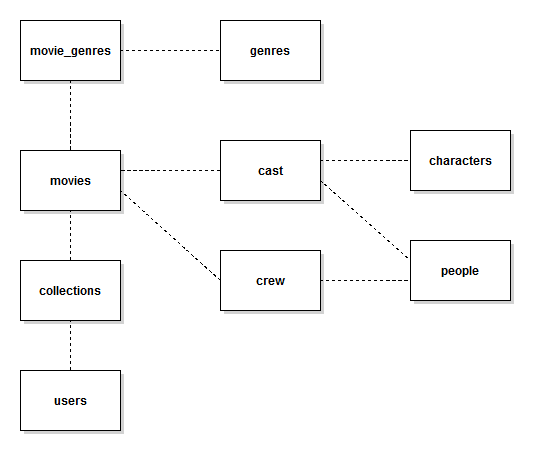
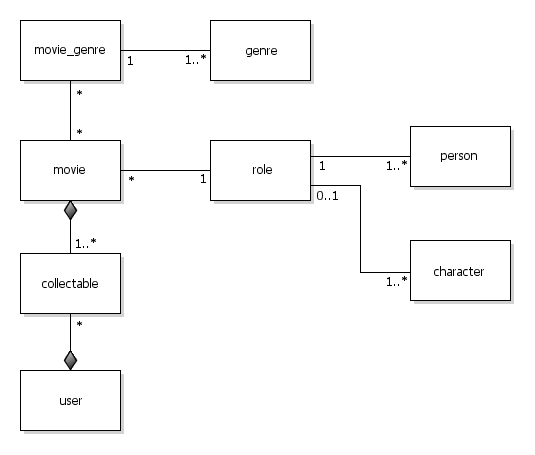
muutettu taulujen nimet yksikkömuotoon

diff --git a/src/main/java/leffakanta/model/Movie.java b/src/main/java/leffakanta/model/Movie.java
@@ -11,26 +11,35 @@ import static org.springframework.web.util.HtmlUtils.htmlEscape;
 import static org.springframework.web.util.HtmlUtils.htmlUnescape;
 
 public class Movie {
-    private int movieId;   
+    private int movieId;
+    
     @Size(min=1, max=50) @NotNull 
     private String movieTitle;
+    
     //regexp number between 1900 and 2099
     @Pattern(regexp = "^(19|20)\\d{2}$") @NotNull
     private String year;    
+    
     //regexp null or 0>= and <1000
     @Pattern(regexp = "^$|\\d{1,3}(?:\\.\\d{1,5})?$")
     private String runtime;    
+    
     //regexp null or number between 0 and 10 with optional 1 digit
     @Pattern(regexp = "^$|10([.,]0)?|(\\d([.,]\\d{1})?)")
     private String rating;    
+    
     @Size(min=0, max=500) 
     private String plotText;
+    
     @URL 
     private String posterUrl;
+    
     @URL
     private String backgroundUrl;
+    
     @URL
     private String trailerUrl;
+    
     private String formatType;
     private int collectionID;
     private int ownerCount;
@@ -42,15 +51,15 @@ public class Movie {
     // return -1 if unsuccessful, 0 if existing movie added into collection and return movie_id if new movie added
     public int addMovie(Movie movie, int user_id){
         int retVal = -1;
-        String sql = "SELECT movie_id FROM movies WHERE movie_title = ? AND year = ?";
+        String sql = "SELECT movie_id FROM movie WHERE movie_title = ? AND year = ?";
         int movie_id = Database.queryForInt(sql, new Object[]{ movie.getMovieTitle(), parseInt(movie.getYear())}); 
         if (movie_id==-1){
-            sql = "INSERT INTO movies VALUES (DEFAULT,?,?,null,null,null,null,null) RETURNING movie_id";           
+            sql = "INSERT INTO movie VALUES (DEFAULT,?,?,null,null,null,null,null) RETURNING movie_id";           
             movie_id = Database.queryForInt(sql, new Object[]{ movie.getMovieTitle(), parseInt(movie.getYear())});
             retVal = movie_id;
         }
         if (movie_id!=-1){
-            sql = "INSERT INTO collections VALUES (DEFAULT, "+user_id+","+movie_id+",'"+movie.getFormatType()+"')";
+            sql = "INSERT INTO collectable VALUES (DEFAULT, "+user_id+","+movie_id+",'"+movie.getFormatType()+"')";
             Database.update(sql, null);
             if (retVal == -1){
                 retVal = 0;
@@ -61,7 +70,7 @@ public class Movie {
     
     // update movie details
     public void updateMovie(Movie movie){
-        String sql = "UPDATE movies SET movie_title=?, year=?, runtime=?, rating=?, plot_text=?, poster_url=?, background_url=? " +
+        String sql = "UPDATE movie SET movie_title=?, year=?, runtime=?, rating=?, plot_text=?, poster_url=?, background_url=? " +
                 " WHERE movie_id=?";
         Database.update(sql, new Object[]{ movie.getMovieTitle(), parseInt(movie.getYear()), parseInt(movie.getRuntimeForSql()), 
             parseFloat(movie.getRatingForSql()), movie.getPlotText(), movie.getPosterUrl(), movie.getBackgroundUrl(), movie.getMovieId()}); 
@@ -70,11 +79,11 @@ public class Movie {
     
     // remove movie from selected users collection
     public void removeMovie(int movie_id, int collection_id, int user_id){
-        String sql = "DELETE FROM collections WHERE item_id = ? AND user_id = ?";
+        String sql = "DELETE FROM collectable WHERE item_id = ? AND user_id = ?";
         Database.update(sql, new Object[] {collection_id, user_id});
         
         // if last user with the same movie, delete movie records too
-        sql = "SELECT COUNT(*) FROM collections WHERE movie_id = ?";
+        sql = "SELECT COUNT(*) FROM collectable WHERE movie_id = ?";
         int count = Database.queryForInt(sql, movie_id);
         if (count == 0){            
             deleteMovie(movie_id);
@@ -83,25 +92,25 @@ public class Movie {
     
     // delete movie alltogether
     public void deleteMovie(int movie_id){
-        String sql = "DELETE FROM movies WHERE movie_id = ?";
+        String sql = "DELETE FROM movie WHERE movie_id = ?";
         Database.update(sql, movie_id);
     }
     
     // get movie's details
     public Movie getMovie(int movie_id){        
         // get basic movie details
-        String sql = "SELECT * FROM movies WHERE movie_id = ?";
+        String sql = "SELECT * FROM movie WHERE movie_id = ?";
         Movie movie = Database.queryForObject(sql, movie_id, Movie.class);
 
         // get movie's genres
-        sql = "SELECT genre_name FROM movie_genres, genres WHERE movie_genres.genre_id=genres.genre_id AND movie_id = ?";
+        sql = "SELECT genre_name FROM movie_genre, genre WHERE movie_genre.genre_id=genre.genre_id AND movie_id = ?";
         movie.genres = Database.queryForList(sql, movie_id, Genre.class);
 
-        sql = "SELECT role_id, people.person_id, production_role, person_name, image_url, null as character_name FROM " +
-                "people, roles WHERE production_role != 'Actor' AND roles.person_id = people.person_id AND movie_id = ? " +
-                "UNION SELECT role_id, people.person_id, production_role, person_name, image_url, character_name FROM " +
-                "people, roles, characters WHERE production_role = 'Actor' AND roles.character_id = characters.character_id " +
-                "AND roles.person_id = people.person_id AND movie_id = ? ORDER BY role_id ASC;";
+        sql = "SELECT role_id, person.person_id, production_role, person_name, image_url, null as character_name FROM " +
+                "person, role WHERE production_role != 'Actor' AND role.person_id = person.person_id AND movie_id = ? " +
+                "UNION SELECT role_id, person.person_id, production_role, person_name, image_url, character_name FROM " +
+                "person, role, \"character\" WHERE production_role = 'Actor' AND role.character_id = \"character\".character_id " +
+                "AND role.person_id = person.person_id AND movie_id = ? ORDER BY role_id ASC;";
         movie.roles = Database.queryForList(sql, new Object[]{ movie_id, movie_id }, Role.class);        
         return movie;
     }
@@ -109,8 +118,8 @@ public class Movie {
     // get movie details by collection id
     public Movie getMovieFromCollection(int collection_id){
         // get basic movie details
-        String sql = "SELECT DISTINCT item_id as collection_id, movies.movie_id, movie_title, year, format_type " +
-                "FROM movies, collections WHERE movies.movie_id = collections.movie_id AND item_id = ?";
+        String sql = "SELECT DISTINCT item_id as collection_id, movie.movie_id, movie_title, year, format_type " +
+                "FROM movie, collectable WHERE movie.movie_id = collectable.movie_id AND item_id = ?";
         Movie movie = Database.queryForObject(sql, collection_id, Movie.class);
         return movie;
     }
@@ -157,13 +166,14 @@ public class Movie {
         return enums;
     }    
     
-    private List<Role> getRole(String name){
+    // get role list by rolename
+    private List<Role> getRoles(String roleName){
         List<Role> roleList = new ArrayList<Role>();
         if (this.roles == null){
             return roleList;
         }
         for (Role role : this.roles){
-            if (role.getProductionRole().equals(name)){
+            if (role.getProductionRole().equals(roleName)){
                 roleList.add(role);
             }
         }
@@ -187,9 +197,9 @@ public class Movie {
     public int getOwnerCount(){ return this.ownerCount; }
     public boolean getNewMovie(){ return this.newMovie; }
     public List<Genre> getGenres(){ return this.genres; }
-    public List<Role> getCast(){ return this.getRole("Actor"); }
-    public List<Role> getDirectors(){ return this.getRole("Director"); }
-    public List<Role> getWriters(){ return this.getRole("Writer"); }
+    public List<Role> getCast(){ return this.getRoles("Actor"); }
+    public List<Role> getDirectors(){ return this.getRoles("Director"); }
+    public List<Role> getWriters(){ return this.getRoles("Writer"); }
     
     public void setMovieId(int value){ this.movieId = value; }
     public void setMovieTitle(String value){ this.movieTitle = htmlUnescape(value); }

diff --git a/src/main/java/leffakanta/model/Movies.java b/src/main/java/leffakanta/model/Movies.java
@@ -9,8 +9,8 @@ public class Movies {
     
     // get all movies
     public List<Movie> getMovieList(int page, int pageSize){
-        String sql = "SELECT m.movie_id, movie_title, year, rating, c.owner_count FROM movies m " +
-                "JOIN (SELECT movie_id, COUNT(movie_id) as owner_count FROM collections GROUP BY movie_id) c "+
+        String sql = "SELECT m.movie_id, movie_title, year, rating, c.owner_count FROM movie m " +
+                "JOIN (SELECT movie_id, COUNT(movie_id) as owner_count FROM collectable GROUP BY movie_id) c "+
                 "ON m.movie_id = c.movie_id ORDER BY movie_title, year ASC OFFSET ? LIMIT ?";
         List<Movie> movies = Database.queryForList(sql, new Object[]{ (page-1)*pageSize, pageSize}, Movie.class);
         return movies;
@@ -18,8 +18,8 @@ public class Movies {
 
     // get users movie collection
     public List<Movie> getMovieList(int userId, int page, int pageSize){
-        String sql = "SELECT DISTINCT item_id as collection_id, movies.movie_id, movie_title, year, rating, user_id, format_type " +
-                "FROM movies, collections WHERE movies.movie_id = collections.movie_id AND user_id = ? " +
+        String sql = "SELECT DISTINCT item_id as collection_id, movie.movie_id, movie_title, year, rating, user_id, format_type " +
+                "FROM movie, collectable WHERE movie.movie_id = collectable.movie_id AND user_id = ? " +
                 "ORDER BY movie_title, year ASC OFFSET ? LIMIT ?";
         List<Movie> movies = Database.queryForList(sql, new Object[]{ userId, (page-1)*pageSize, pageSize}, Movie.class);
         return movies;
@@ -27,8 +27,8 @@ public class Movies {
 
     // get all movies for given search value
     public List<Movie> searchMovieList(String searchValue){
-        String sql = "SELECT m.movie_id, movie_title, year, rating, c.owner_count FROM movies m " +
-                "JOIN (SELECT movie_id, COUNT(movie_id) as owner_count FROM collections GROUP BY movie_id) c "+
+        String sql = "SELECT m.movie_id, movie_title, year, rating, c.owner_count FROM movie m " +
+                "JOIN (SELECT movie_id, COUNT(movie_id) as owner_count FROM collectable GROUP BY movie_id) c "+
                 "ON m.movie_id = c.movie_id WHERE LOWER(movie_title) LIKE ? ORDER BY movie_title, year ASC";
         List<Movie> movies = Database.queryForList(sql, "%"+searchValue.toLowerCase()+"%", Movie.class);
         return movies;
@@ -36,8 +36,8 @@ public class Movies {
 
     // get users movie collection for given search value
     public List<Movie> searchMovieList(int userId, String searchValue){
-        String sql = "SELECT DISTINCT item_id as collection_id, movies.movie_id, movie_title, year, rating, user_id, format_type " +
-                "FROM movies, collections WHERE movies.movie_id = collections.movie_id AND user_id = ? AND LOWER(movie_title) LIKE ? " +
+        String sql = "SELECT DISTINCT item_id as collection_id, movie.movie_id, movie_title, year, rating, user_id, format_type " +
+                "FROM movie, collectable WHERE movie.movie_id = collectable.movie_id AND user_id = ? AND LOWER(movie_title) LIKE ? " +
                 "ORDER BY movie_title, year ASC";
         List<Movie> movies = Database.queryForList(sql, new Object[] { userId, "%"+searchValue.toLowerCase()+"%" }, Movie.class);
         return movies;
@@ -45,28 +45,29 @@ public class Movies {
 
     // get movie count for given search value
     public int searchMovieCount(String searchValue){
-        String sql = "SELECT COUNT(*) FROM movies WHERE LOWER(movie_title) LIKE ?";
+        String sql = "SELECT COUNT(*) FROM movie WHERE LOWER(movie_title) LIKE ?";
         int count = Database.queryForInt(sql, "%"+searchValue.toLowerCase()+"%");
         return count;        
     }
 
     // get movie count for given search value
     public int searchMovieCount(int userId, String searchValue){
-        String sql = "SELECT COUNT(*) FROM movies, collections WHERE movies.movie_id = collections.movie_id AND user_id = ? AND LOWER(movie_title) LIKE ?";
+        String sql = "SELECT COUNT(*) FROM movie, collectable WHERE movie.movie_id = collectable.movie_id "+
+                    "AND user_id = ? AND LOWER(movie_title) LIKE ?";
         int count = Database.queryForInt(sql, new Object[] { userId, "%"+searchValue.toLowerCase()+"%" });
         return count;
     }    
 
     // get movie amount for all users
     public int getMovieCount(){
-        String sql = "SELECT COUNT(*) FROM collections";
+        String sql = "SELECT COUNT(*) FROM collectable";
         int count = Database.queryForInt(sql, null);
         return count;
     }    
 
     // get movie amount for user
     public int getMovieCount(int userId){
-        String sql = "SELECT COUNT(*) FROM collections WHERE user_id = ?";
+        String sql = "SELECT COUNT(*) FROM collectable WHERE user_id = ?";
         int count = Database.queryForInt(sql, userId);
         return count;
     }    

diff --git a/src/main/java/leffakanta/model/User.java b/src/main/java/leffakanta/model/User.java
@@ -19,14 +19,14 @@ public class User {
 
     // get user's details
     public User getUser(String username){
-        String sql = "SELECT * FROM users WHERE username = ?";
+        String sql = "SELECT * FROM \"user\" WHERE username = ?";
         User user = Database.queryForObject(sql, username, User.class);
         return user;
     }
     
     // get user by id
     public User getUser(int user_id){
-        String sql = "SELECT * FROM users WHERE user_id = ?";
+        String sql = "SELECT * FROM \"user\" WHERE user_id = ?";
         User user = Database.queryForObject(sql, user_id, User.class);
         return user;
     }
@@ -60,7 +60,7 @@ public class User {
             PasswordHash hash = new PasswordHash();
             user.setIsAdmin(false);
             user.setPasswordHash(hash.createHash(user.passwordNew));
-            String sql = "INSERT INTO users VALUES (DEFAULT,?,?,false)";
+            String sql = "INSERT INTO \"user\" VALUES (DEFAULT,?,?,false)";
             Database.update(sql, new Object[]{ user.getUsername(), user.getPasswordHash()});
             user.setPasswordNew("");
             user.setPasswordNewConfirm("");
@@ -76,12 +76,12 @@ public class User {
         String sql;
         try{
             if (user.getPasswordNew().isEmpty()){
-                sql = "UPDATE users SET username=?, is_admin=? WHERE user_id=?";
+                sql = "UPDATE \"user\" SET username=?, is_admin=? WHERE user_id=?";
                 Database.update(sql, new Object[]{ user.getUsername(), user.getIsAdmin(), user.getUserId()}); 
             } else {
                 PasswordHash hash = new PasswordHash();        
                 user.setPasswordHash(hash.createHash(user.passwordNew));
-                sql = "UPDATE users SET username=?, password_hash=?, is_admin=? WHERE user_id=?";
+                sql = "UPDATE 'user' SET username=?, password_hash=?, is_admin=? WHERE user_id=?";
                 Database.update(sql, new Object[]{ user.getUsername(), user.getPasswordHash(), user.getIsAdmin(), user.getUserId()}); 
                 user.setPasswordNew("");
                 user.setPasswordNewConfirm("");
@@ -94,7 +94,7 @@ public class User {
     
     // delete user
     public void deleteUser(int user_id){
-        String sql = "DELETE FROM users WHERE user_id = ?";
+        String sql = "DELETE FROM \"user\" WHERE user_id = ?";
         Database.update(sql, user_id);        
     }
 

diff --git a/src/main/java/leffakanta/model/Users.java b/src/main/java/leffakanta/model/Users.java
@@ -9,28 +9,28 @@ public class Users {
     
     // get list of users
     public List<User> getUserList(int page, int pageSize){
-        String sql = "SELECT user_id, username, is_admin FROM users ORDER BY username ASC OFFSET ? LIMIT ?";
+        String sql = "SELECT user_id, username, is_admin FROM \"user\" ORDER BY username ASC OFFSET ? LIMIT ?";
         List<User> users = Database.queryForList(sql, new Object[]{ (page-1)*pageSize, pageSize}, User.class);
         return users;
     }
 
     // get user count
     public int getUserCount(){
-        String sql = "SELECT COUNT(*) FROM users";
+        String sql = "SELECT COUNT(*) FROM \"user\"";
         int count = Database.queryForInt(sql, null);
         return count;
     }    
     
     // get users for given search value
     public List<User> searchUserList(String searchValue){
-        String sql = "SELECT user_id, username, is_admin FROM users WHERE LOWER(username) LIKE ? ORDER BY username ASC";
+        String sql = "SELECT user_id, username, is_admin FROM \"user\" WHERE LOWER(username) LIKE ? ORDER BY username ASC";
         List<User> users = Database.queryForList(sql, "%"+searchValue.toLowerCase()+"%", User.class);
         return users;
     }
 
     // get user count for given search value
     public int searchUserCount(String searchValue){
-        String sql = "SELECT COUNT(*) FROM users WHERE LOWER(username) LIKE ?";
+        String sql = "SELECT COUNT(*) FROM \"user\" WHERE LOWER(username) LIKE ?";
         int count = Database.queryForInt(sql, "%"+searchValue.toLowerCase()+"%");
         return count;
     }    

diff --git a/src/main/java/leffakanta/model/Roles.java b/src/main/java/leffakanta/model/Roles.java
@@ -10,10 +10,10 @@ public class Roles {
     // get person's details
     public void updatePersonRoles(int personId, int userId){        
         // get basic movie details
-        String sql = "SELECT movies.movie_id, movie_title, year, production_role, character_name FROM movies, roles, characters, collections WHERE "+
-                "roles.movie_id = movies.movie_id AND roles.character_id = characters.character_id AND movies.movie_id = collections.movie_id AND " +
-                "person_id = ? AND user_id = ? UNION SELECT movies.movie_id, movie_title, year, production_role, null as character_name FROM movies, " +
-                "roles, collections WHERE character_id IS NULL AND roles.movie_id = movies.movie_id AND collections.movie_id = movies.movie_id AND " +
+        String sql = "SELECT movie.movie_id, movie_title, year, production_role, character_name FROM movie, role, \"character\", collectable WHERE "+
+                "role.movie_id = movie.movie_id AND role.character_id = \"character\".character_id AND movie.movie_id = collectable.movie_id AND " +
+                "person_id = ? AND user_id = ? UNION SELECT movie.movie_id, movie_title, year, production_role, null as character_name FROM movie, " +
+                "role, collectable WHERE character_id IS NULL AND role.movie_id = movie.movie_id AND collectable.movie_id = movie.movie_id AND " +
                 "person_id = ? AND user_id = ? ORDER BY year DESC;";
         this.roles = Database.queryForList(sql, new Object[]{ personId, userId, personId, userId }, RoleAndMovie.class);
     }    

diff --git a/src/main/java/leffakanta/model/Person.java b/src/main/java/leffakanta/model/Person.java
@@ -12,14 +12,14 @@ public class Person {
     // get person's details
     public Person getPerson(int personId){        
         // get basic movie details
-        String sql = "SELECT * FROM people WHERE person_id = ?";
+        String sql = "SELECT * FROM person WHERE person_id = ?";
         Person person = Database.queryForObject(sql, personId, Person.class);
         return person;
     }
        
     // update person details
     public void updatePerson(Person person){
-        String sql = "UPDATE people SET person_name=?, image_url=? WHERE person_id=?";
+        String sql = "UPDATE person SET person_name=?, image_url=? WHERE person_id=?";
         Database.update(sql, new Object[]{ person.getPersonName(), person.getImageUrl(), person.getPersonId()}); 
     }
     
